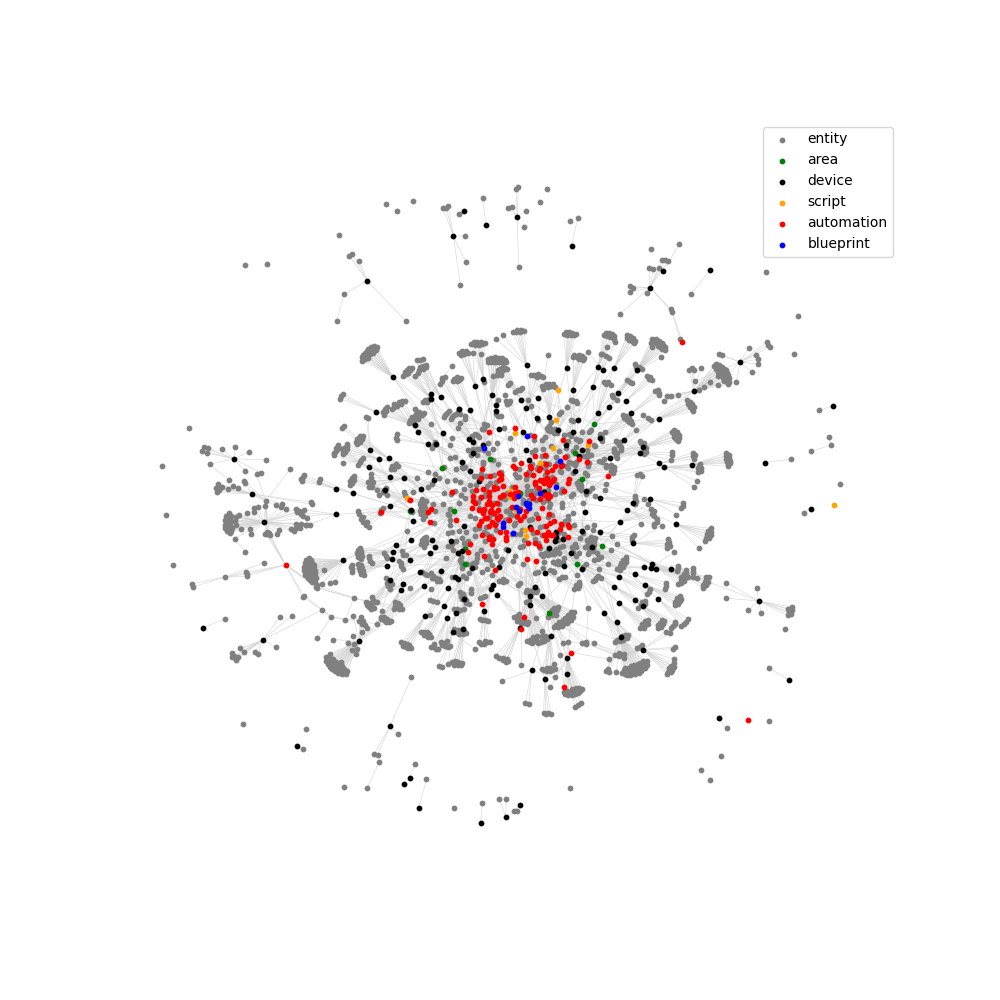
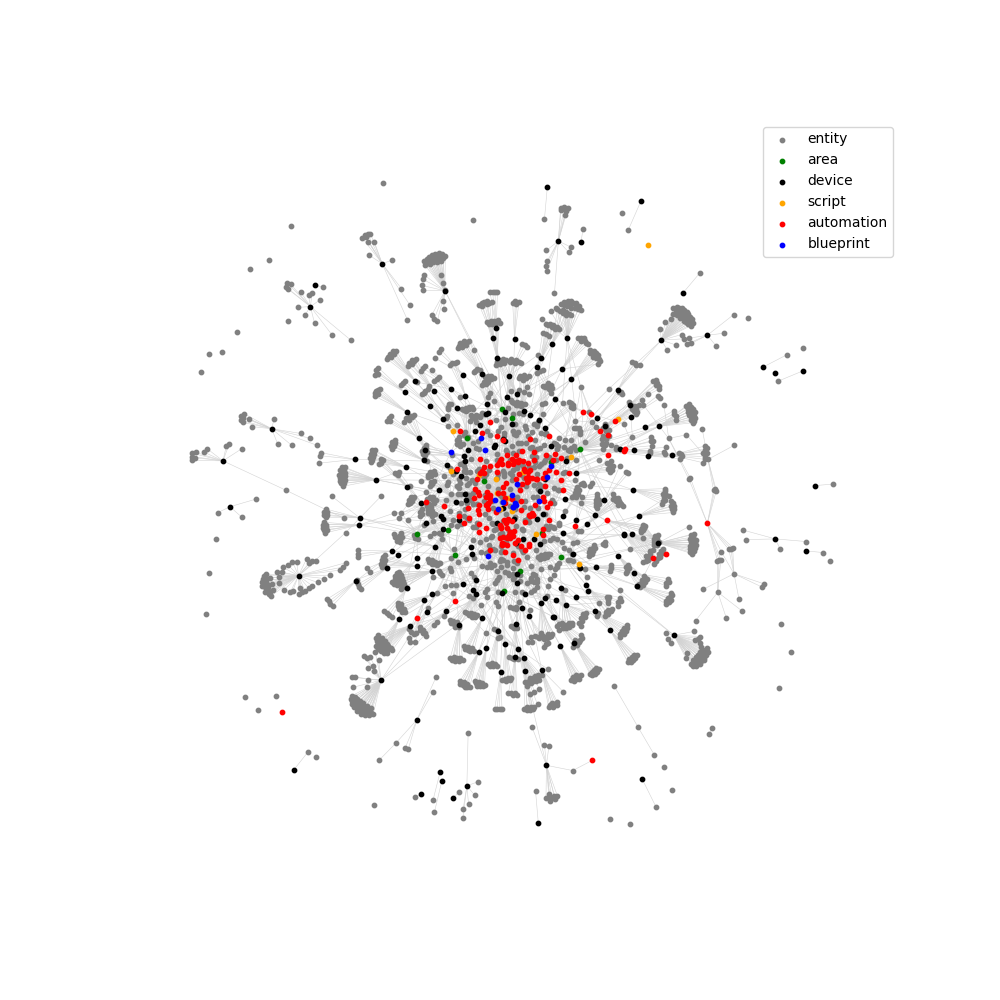
Presence-based timeouts for bedrooms

diff --git a/README.md b/README.md
@@ -50,13 +50,14 @@ Domain | Quantity
 [`sun`](https://www.home-assistant.io/components/sun) | 1
 [`switch`](https://www.home-assistant.io/components/switch) | 43
 [`time`](https://www.home-assistant.io/components/time) | 2
+[`timer`](https://www.home-assistant.io/components/timer) | 3
 [`tts`](https://www.home-assistant.io/components/tts) | 2
 [`update`](https://www.home-assistant.io/components/update) | 114
 [`vacuum`](https://www.home-assistant.io/components/vacuum) | 1
 [`wake_word`](https://www.home-assistant.io/components/wake_word) | 1
 [`weather`](https://www.home-assistant.io/components/weather) | 1
 [`zone`](https://www.home-assistant.io/components/zone) | 1
-Total | 1874
+Total | 1877
 
 ## Core Integrations
 - [AdGuard](https://home-assistant.io/integrations/adguard)
